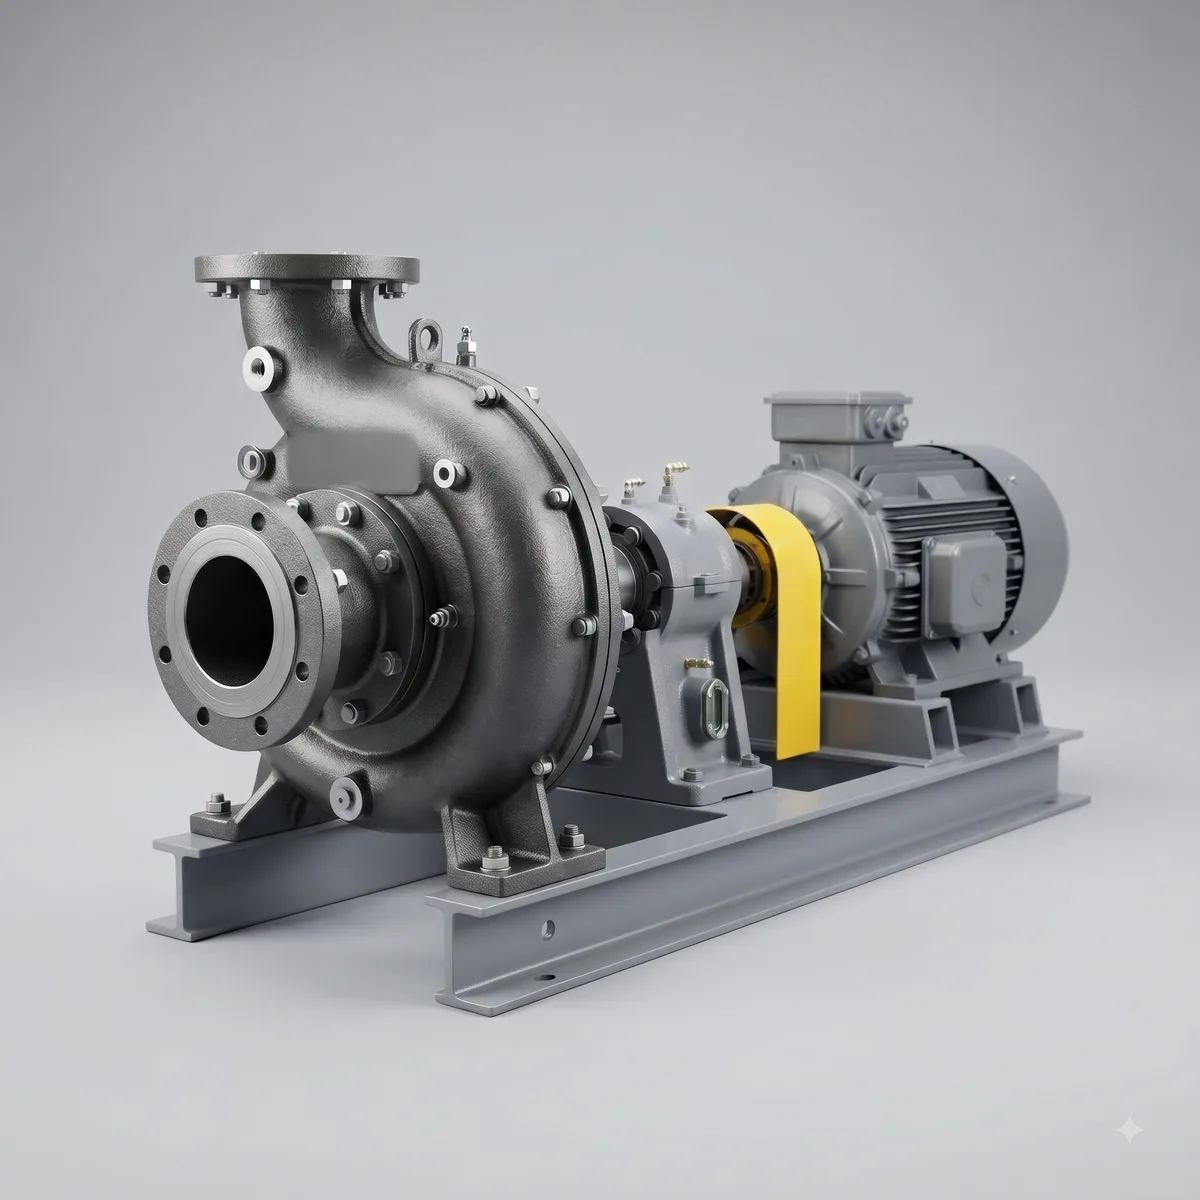
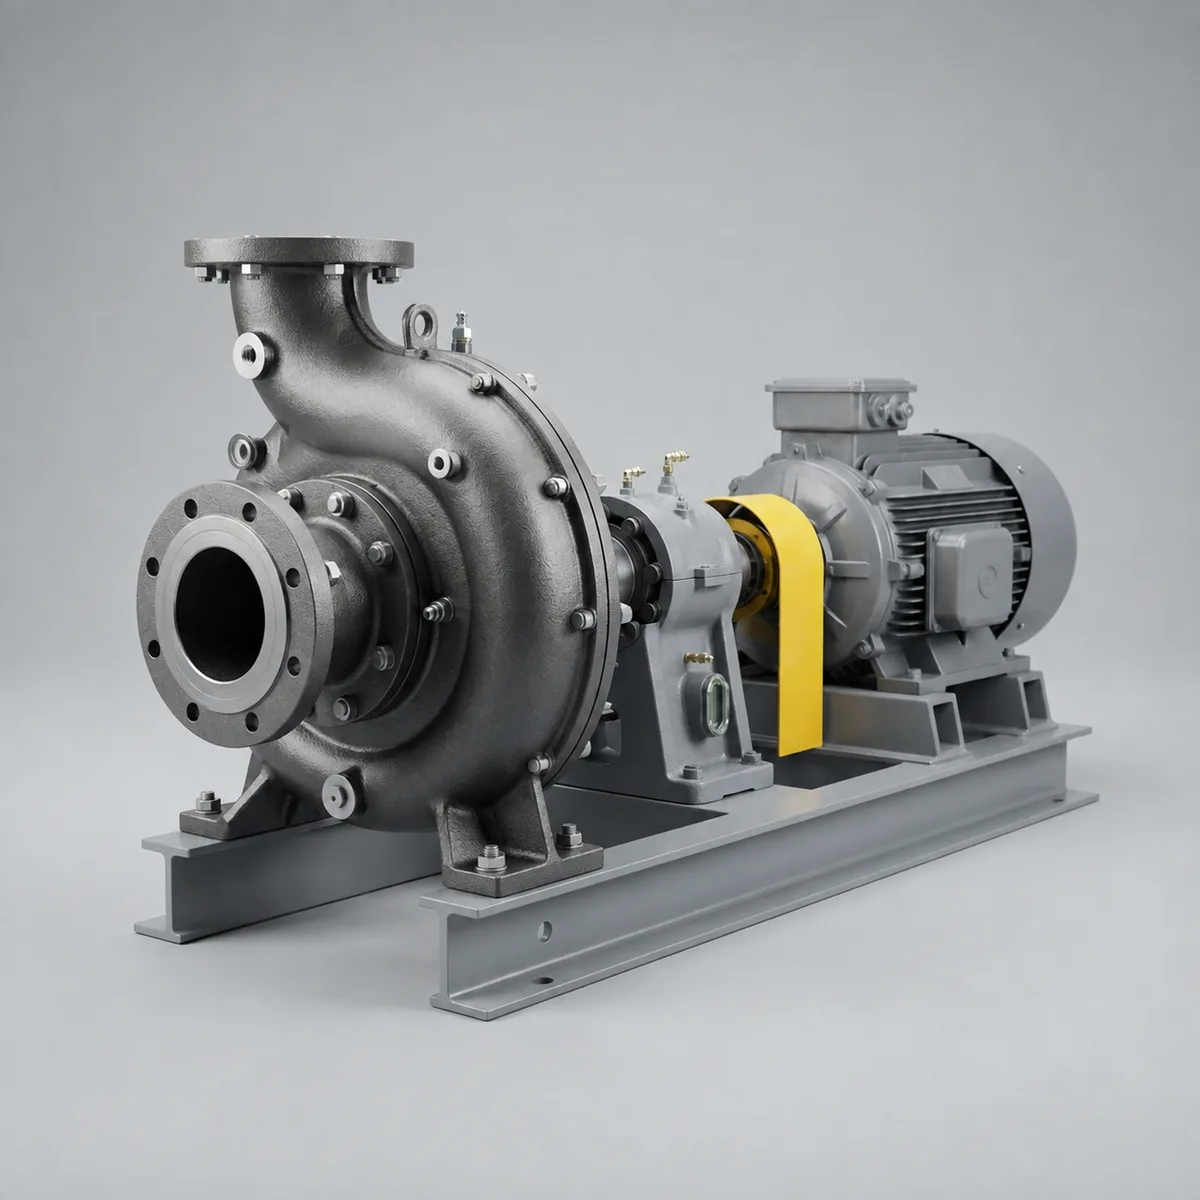
Add TESP, TEHMP and TE/RG Single Stage photos; drop orphaned images
Three of the four supplied files were usable:

- TESP.png  replaces the earlier TESP render, which was softer and
  carried an AI-generation watermark in the corner
- TEHMP.png is new photography for the multistage model
- "TERG Single Stage.png" is a vertical immersion coolant pump, not a
  centrifugal or rotary one, so it goes to the TE/RG Single Stage
  coolant model — as both its hero and its card thumbnail

TEFP.png was byte-identical to the existing public/images/pump-tefp.png,
so it is not added; that model already shows exactly this image.

Encoded as 1200px WebP the same way as the previous batch:
4.5MB of PNG becomes 144KB.

Also deletes six images nothing referenced any more — four superseded
centrifugal renders and the two Jiksan coolant photos the new
single-stage shot displaces (~3.3MB).

Changed region(s): [[0.0925, 0.185, 0.8942, 0.8633], [0.5242, 0.7708, 0.6167, 0.8017]]

diff --git a/lib/coolant-pumps.ts b/lib/coolant-pumps.ts
@@ -34,8 +34,8 @@ const pumps: ProductPump[] = [
     name: 'TE/RG Single Stage',
     fullTitle: 'TE/RG Single Stage Coolant Pumps',
     tagline: 'Seal-less vertical immersion pump for everyday machine-tool coolant duty',
-    image: '/images/coolant/te-rg-single-stage.jpg',
-    thumb: '/images/coolant/coolant-single-thumb.jpg',
+    image: '/images/coolant/te-rg-single-stage.webp',
+    thumb: '/images/coolant/te-rg-single-stage.webp',
     badge: 'Most Popular',
     intro:
       'The TE/RG Single Stage is our workhorse vertical immersion coolant pump — the unit that sits in the tank of a lathe, grinder or drilling machine and simply keeps running. Because the wet end carries no shaft seal at all, there is nothing to wear out and nothing to replace, which is why these pumps routinely outlast the machines they are fitted to. A semi-open impeller lets chips and fine solids pass straight through instead of blocking the pump, and column lengths are built to order so the unit matches your tank depth exactly.',

diff --git a/app/centrifugal-process-pumps/page.tsx b/app/centrifugal-process-pumps/page.tsx
@@ -259,7 +259,7 @@ const pumps = [
     model: 'TEHMP',
     name: 'High-Pressure Multistage Pump',
     tagline: 'Ultra-high-pressure multistage for the most demanding service',
-    image: '/images/pump-tehmp.png',
+    image: '/images/Centrifugal-process-pump/pump-tehmp.webp',
     description:
       'The TEHMP series represents the pinnacle of our centrifugal pump engineering — an ultra-high-pressure multistage pump designed for critical service where reliability is non-negotiable. Manufactured to exacting tolerances with premium alloys for extreme-pressure injection and high-head duties.',
     applications: [
